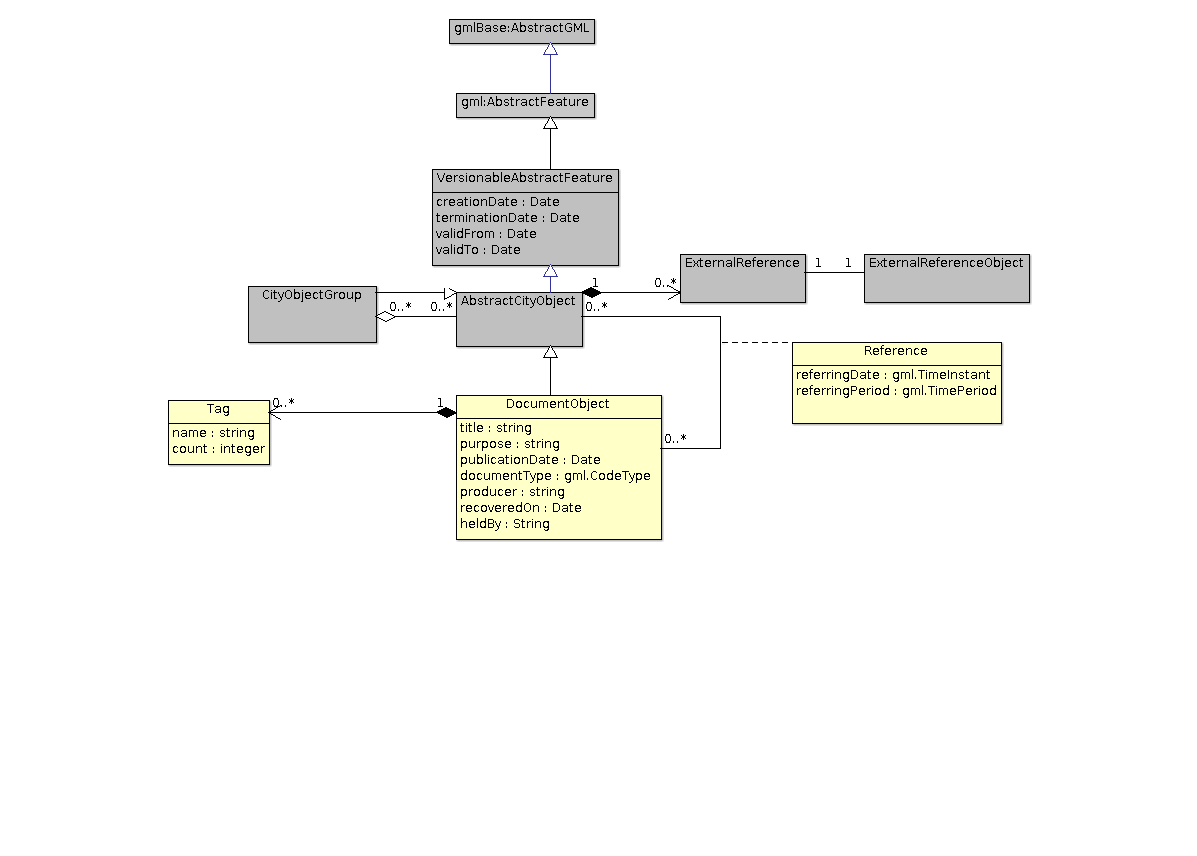
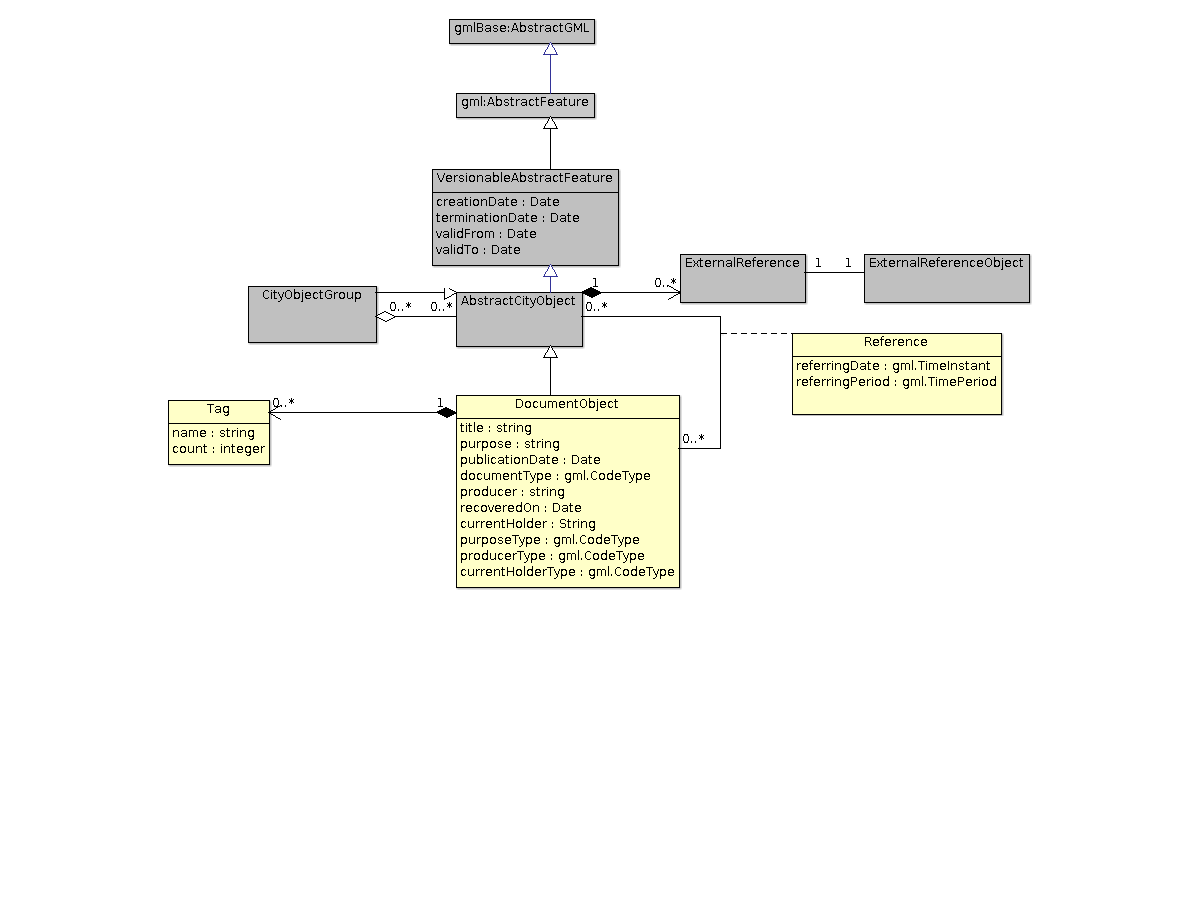
Update Document Object with new attributes

Changed region(s): [[0.1236, 0.1822, 0.8655, 0.6682], [0.3709, 0.0911, 0.4946, 0.1519], [0.3709, 0.0, 0.4946, 0.0607]]

diff --git a/doc/ADE/DocumentADE/documentADE.md b/doc/ADE/DocumentADE/documentADE.md
@@ -1,7 +1,7 @@
 # Document ADE
 
 # Current Proposition
-#### Publication Date: March 18, 2016
+#### Publication Date: March 21, 2016
 
 ![Image Alt](DocumentADE.png)
 
@@ -9,7 +9,6 @@
 - What's the precise definition of a referring date?
 - Shouldn't there be many referring dates for a particular city object in a document? 
 - Do we require any other attributes to describe a reference? What is the purpose of the reference? Is it an imaginary project or date?
-- Do we need to specify producerType, heldByType (to specify whether they are official/non official/private sources)?
 
 
 ## Evolution of Document ADE
@@ -64,7 +63,7 @@ DocumentType has been replaced by gml:codeType (considering CityGML 2.0 changes)
 referringDate and referringPeriod makes use of gml:TimeInstant and gml:TimePeriod respectively.
 purpose is now a string to support various possibilities.
 
-![Image Alt](DocumentADE.png)
+![Image Alt](evolution/DocumentADEv1.png)
 
 #### Open Problems
 - What's the precise definition of a referring date?
